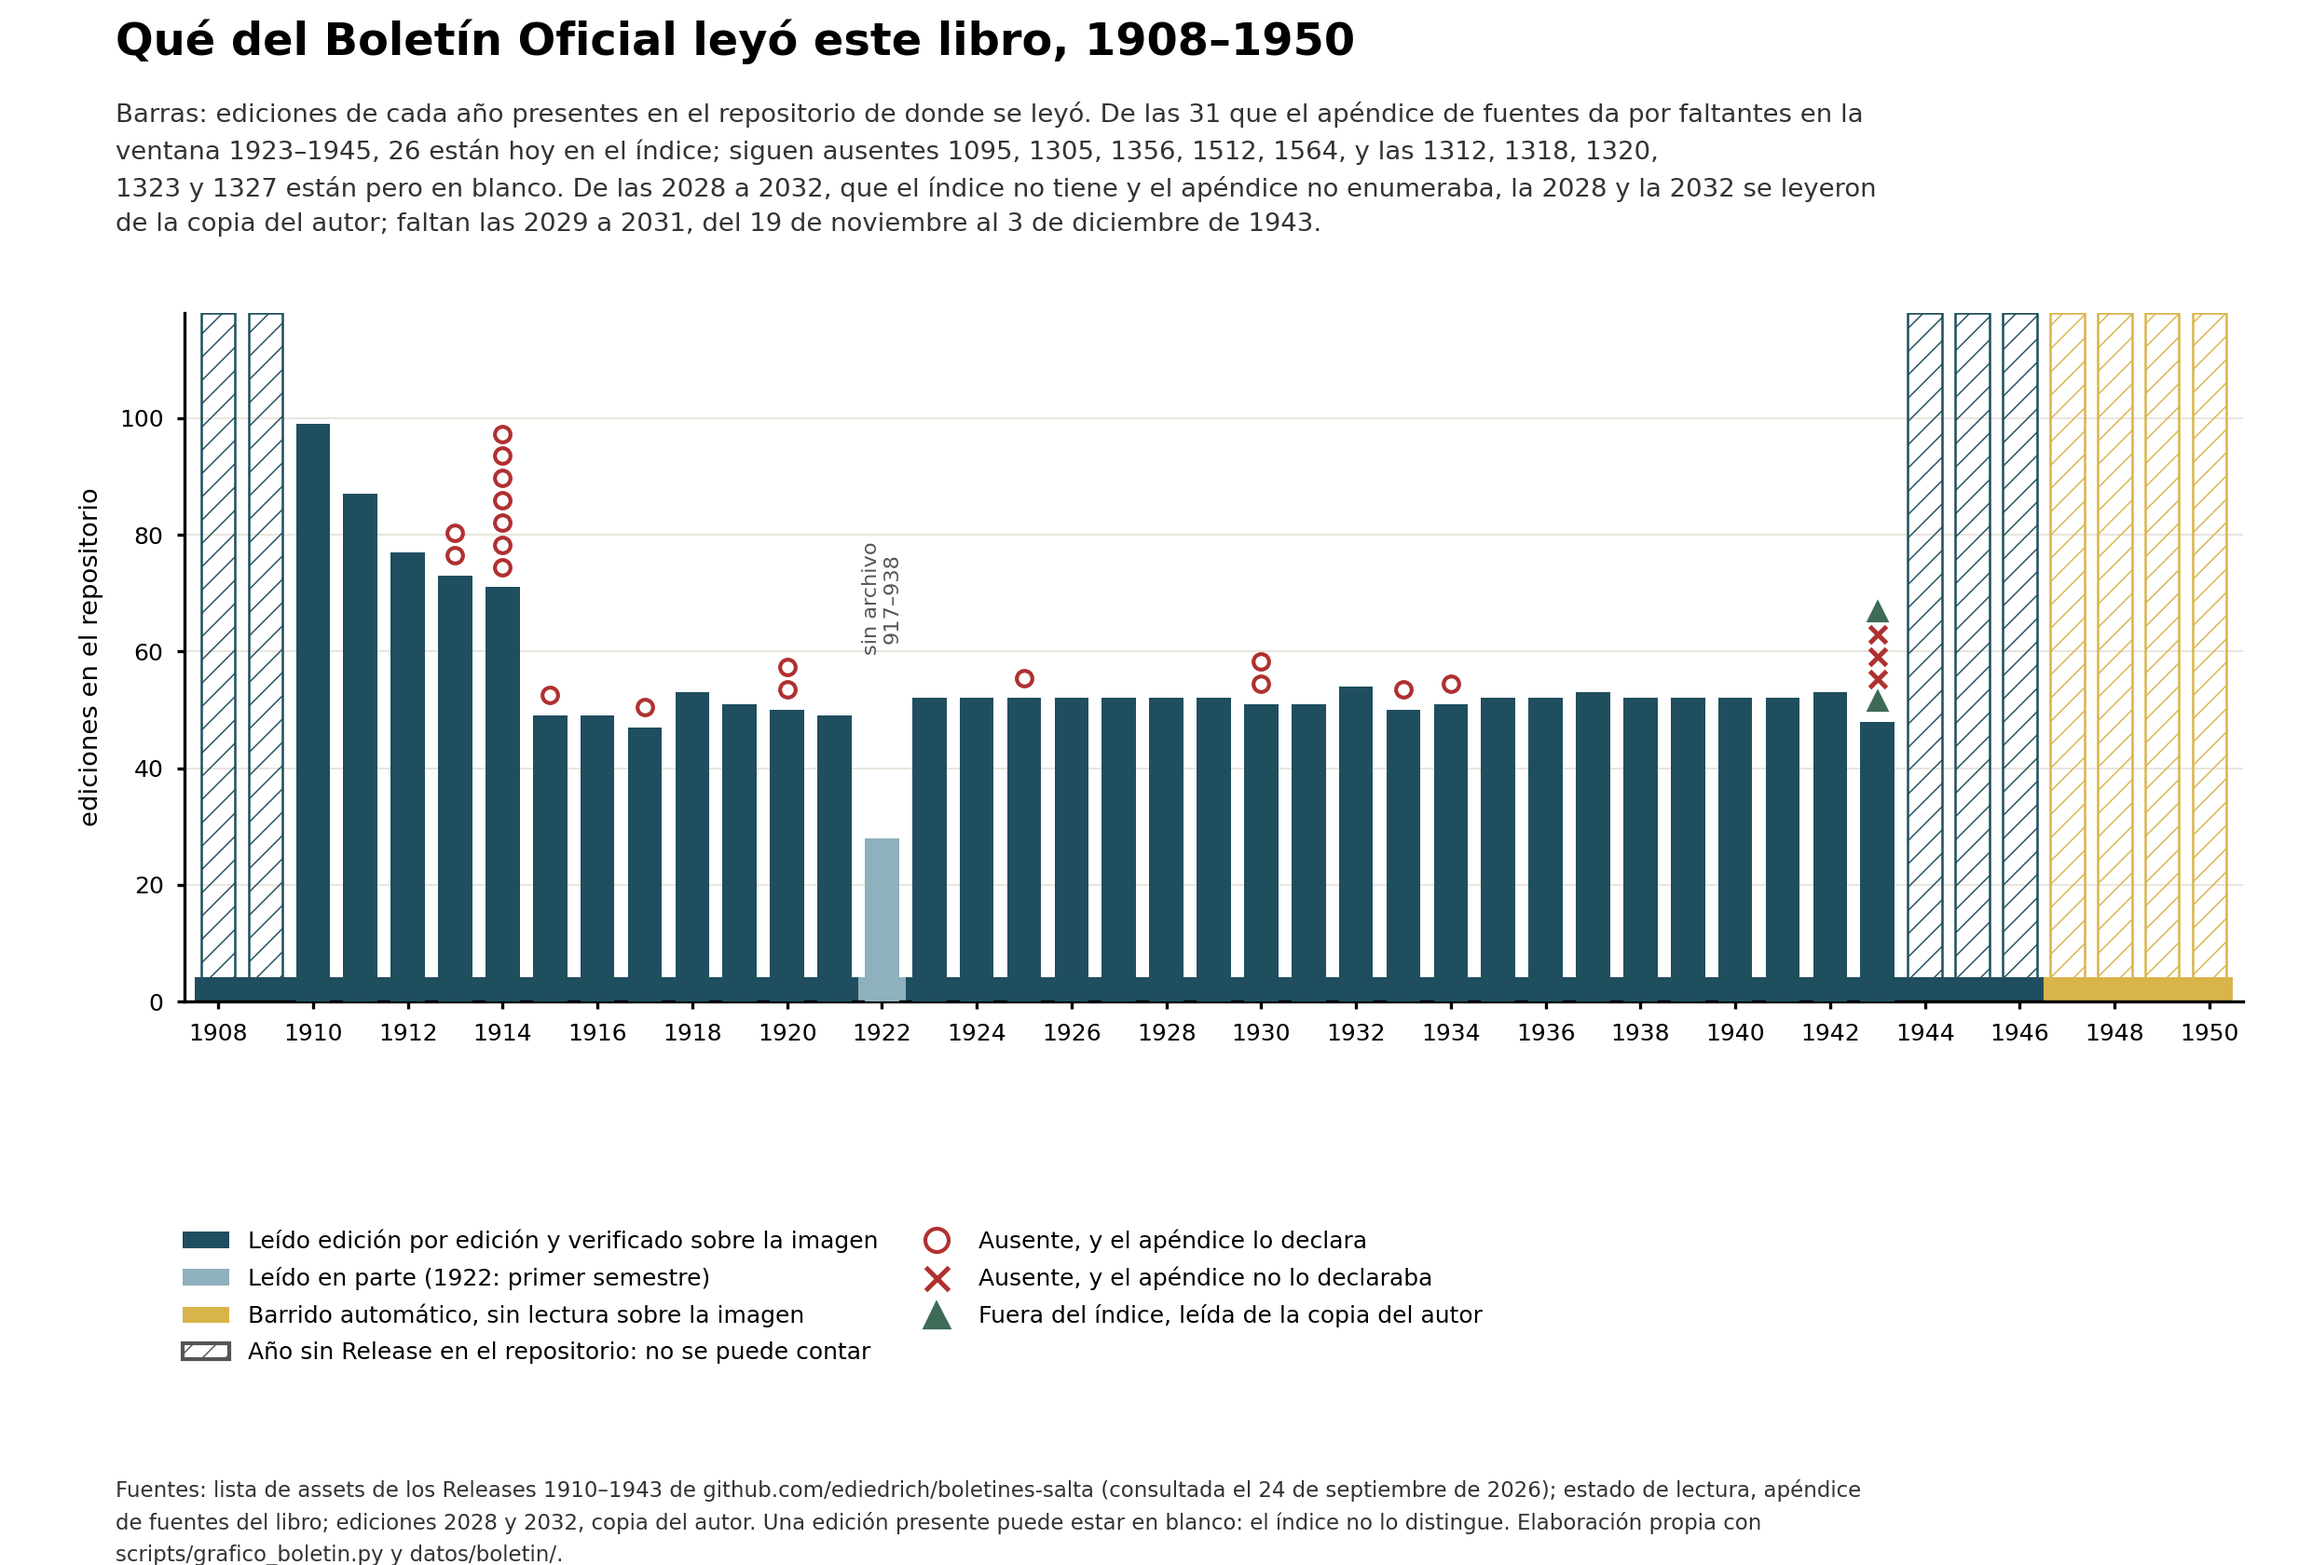
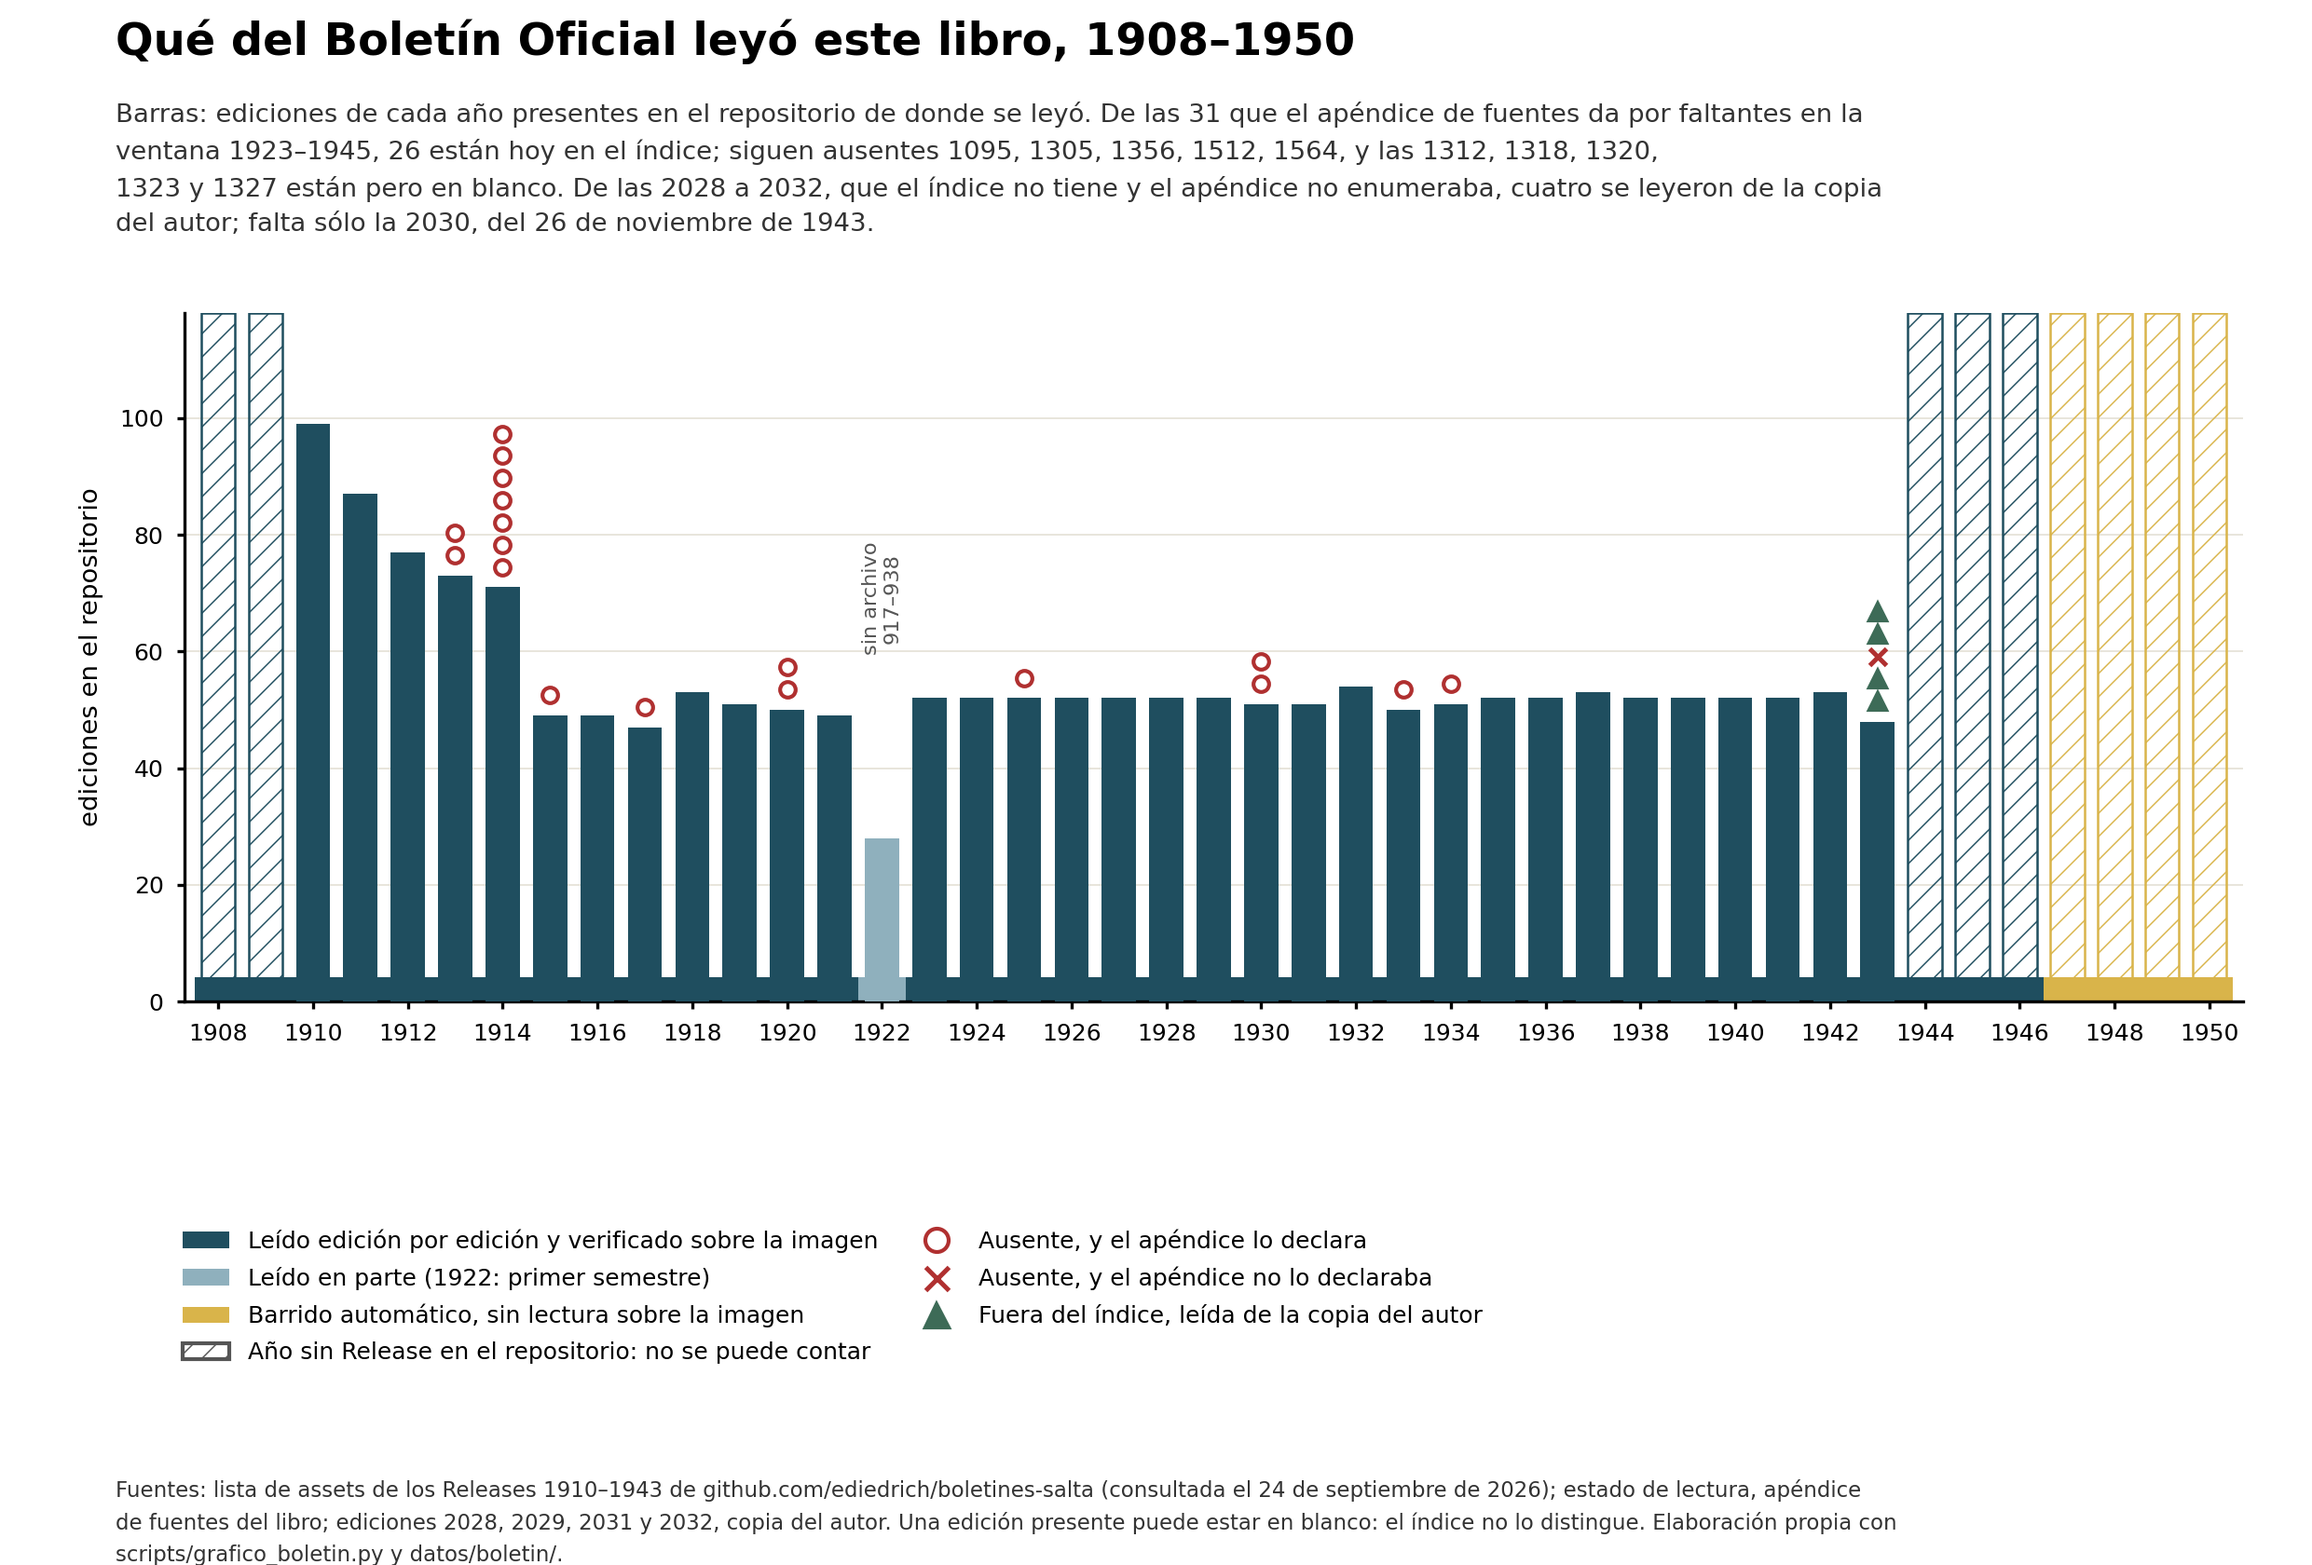
Ediciones 2029 y 2031 leidas; comisaria de La Caldera 1943 (Barrionuevo, Aguero); laminas de cobertura y cargos

diff --git a/scripts/grafico_boletin.py b/scripts/grafico_boletin.py
@@ -90,12 +90,12 @@ fig.text(0.05, 0.965, 'Qué del Boletín Oficial leyó este libro, 1908–1950',
 fig.text(0.05, 0.935,
          f'Barras: ediciones de cada año presentes en el repositorio de donde se leyó. De las 31 que el apéndice de fuentes da por faltantes en la\n'
          f'ventana 1923–1945, {len(presentes_hoy)} están hoy en el índice; siguen ausentes {", ".join(str(e) for e in F31 if e in aus)}, y las 1312, 1318, 1320,\n'
-         f'1323 y 1327 están pero en blanco. De las 2028 a 2032, que el índice no tiene y el apéndice no enumeraba, la 2028 y la 2032 se leyeron\n'
-         f'de la copia del autor; faltan las {no_enumeradas[0]} a {no_enumeradas[-1]}, del 19 de noviembre al 3 de diciembre de 1943.',
+         f'1323 y 1327 están pero en blanco. De las 2028 a 2032, que el índice no tiene y el apéndice no enumeraba, cuatro se leyeron de la copia\n'
+         f'del autor; falta sólo la {no_enumeradas[0]}, del 26 de noviembre de 1943.',
          fontsize=6.6, va='top', color='#333333', linespacing=1.55)
 fig.text(0.05, 0.055,
          'Fuentes: lista de assets de los Releases 1910–1943 de github.com/ediedrich/boletines-salta (consultada el 24 de septiembre de 2026); estado de lectura, apéndice\n'
-         'de fuentes del libro; ediciones 2028 y 2032, copia del autor. Una edición presente puede estar en blanco: el índice no lo distingue. Elaboración propia con\nscripts/grafico_boletin.py y datos/boletin/.',
+         'de fuentes del libro; ediciones 2028, 2029, 2031 y 2032, copia del autor. Una edición presente puede estar en blanco: el índice no lo distingue. Elaboración propia con\nscripts/grafico_boletin.py y datos/boletin/.',
          fontsize=5.5, va='top', color='#333333', linespacing=1.6)
 fig.savefig(FIG / 'fig-boletin-cobertura.png', dpi=300)
 print('ok', FIG / 'fig-boletin-cobertura.png')

diff --git a/datos/boletin/LEEME.md b/datos/boletin/LEEME.md
@@ -6,7 +6,7 @@ el repositorio de donde se leyó.
 | archivo | qué es |
 |---|---|
 | `ediciones_repositorio.csv` | Año y número de cada edición presente en los Releases de `ediedrich/boletines-salta`, relevados el 24 de septiembre de 2026 desde la lista de assets de cada Release. Cubre 1910–1943: 1908, 1909 y 1944 en adelante no tienen Release en ese repositorio. Una edición presente puede estar en blanco: el índice no lo distingue. |
-| `ediciones_fuera_del_indice.csv` | Las 2.028 a 2.032 (fines de 1943), que no están en el Release: la 2.028 y la 2.032 se leyeron de la copia del autor; las 2.029 a 2.031 no se obtuvieron. |
+| `ediciones_fuera_del_indice.csv` | Las 2.028 a 2.032 (fines de 1943), que no están en el Release: las 2.028, 2.029, 2.031 y 2.032 se leyeron de la copia del autor; la 2.030 no se obtuvo. |
 | `estado_lectura.csv` | Cómo leyó el libro cada tramo de años, según su apéndice de fuentes. |
 
 `scripts/grafico_boletin.py` cruza los dos y dibuja `fig-boletin-cobertura.png`.
